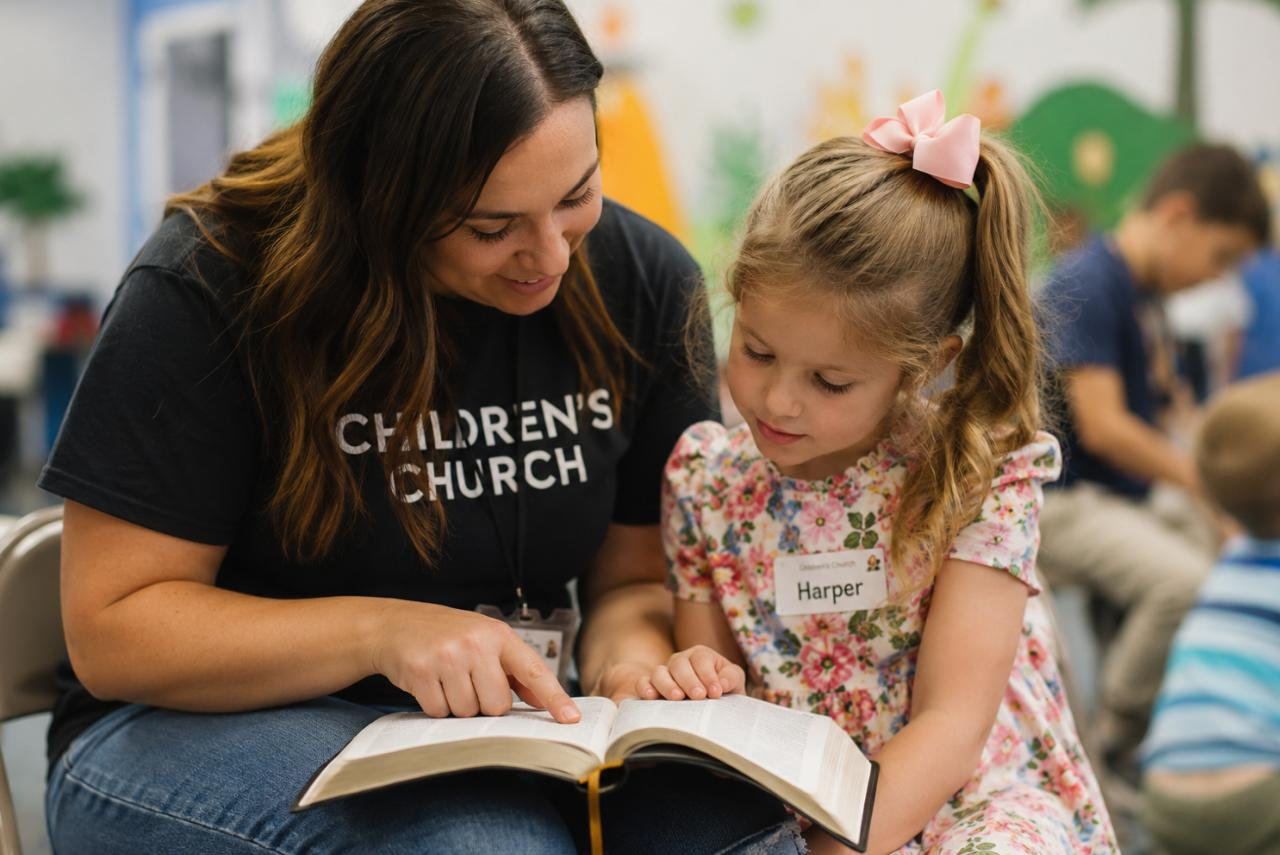
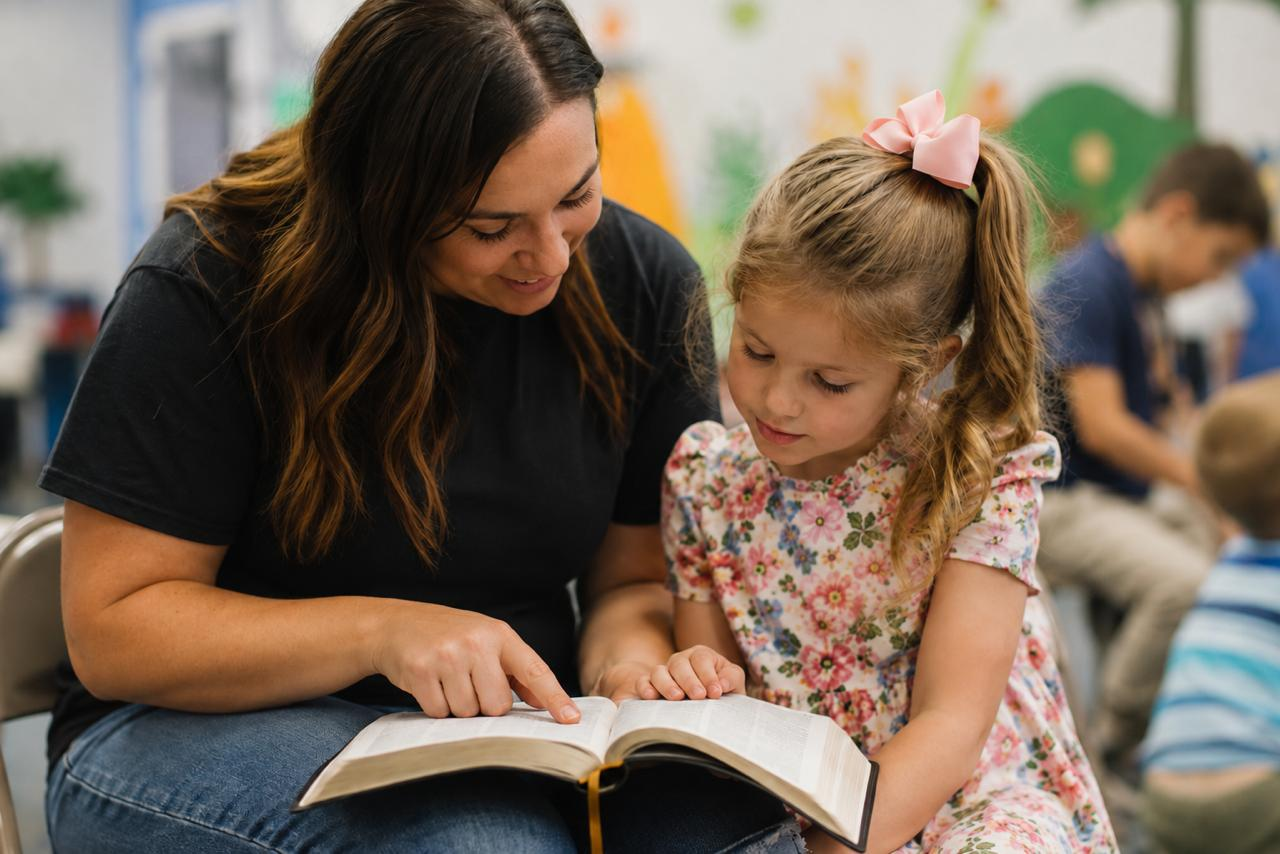
feat: per-page OG images + shirt photo swap
OG images:
- Default: og-default.jpg (bible photo, replaces logo)
- /kids: kids-hero.jpg
- /youth: youth-bible-study.jpg
- /life-groups: life-groups-hero.jpg
- /classes: classes-hero.jpg
- /sermons: expository-preaching.jpg
- /resources: mere-membership-book.jpg
- /kids/adventure-club: kids-hero.jpg
- Fix: removed stale /barabbas-road/ prefix from default OG image paths

Kids page: swap kids-serve-volunteer.jpg (shirt text removed)

diff --git a/app/layout.tsx b/app/layout.tsx
@@ -140,7 +140,7 @@ export const metadata: Metadata = {
       "A Bible-teaching church in Miramar, San Diego. Verse-by-verse preaching every Sunday at 10am. 7340 Miramar Rd, San Diego, CA 92126.",
     images: [
       {
-        url: "/barabbas-road/assets/logolock-black.png",
+        url: "/assets/og-default.jpg",
         width: 1200,
         height: 630,
         alt: "Barabbas Road Church — San Diego",
@@ -151,7 +151,7 @@ export const metadata: Metadata = {
     card: "summary_large_image",
     title: `${CHURCH_NAME} — San Diego`,
     description: "Bible-teaching church in Miramar, San Diego. Sundays at 10am. 7340 Miramar Rd.",
-    images: ["/barabbas-road/assets/logolock-black.png"],
+    images: ["/assets/og-default.jpg"],
   },
   robots: {
     index: true,

diff --git a/app/kids/adventure-club/layout.tsx b/app/kids/adventure-club/layout.tsx
@@ -5,6 +5,9 @@ export const metadata: Metadata = {
   description:
     "Adventure Club at Barabbas Road Church — a monthly outdoor program for kids combining adventure, team challenges, and Bible-centered discipleship.",
   alternates: { canonical: "https://barabbas.com/kids/adventure-club/" },
+  openGraph: {
+    images: [{ url: "/assets/kids-hero.jpg", width: 1200, height: 630, alt: "Adventure Club — Barabbas Road Kids" }],
+  },
 };
 
 export default function AdventureClubLayout({ children }: { children: React.ReactNode }) {

diff --git a/app/resources/page.tsx b/app/resources/page.tsx
@@ -9,6 +9,9 @@ export const metadata: Metadata = {
   description:
     "Pastoral papers, theological studies, and position papers from Barabbas Road Church — exploring doctrine, Scripture, and everyday Christian living.",
   alternates: { canonical: "https://barabbas.com/resources/" },
+  openGraph: {
+    images: [{ url: "/assets/mere-membership-book.jpg", width: 1200, height: 630, alt: "Resources — Barabbas Road Church" }],
+  },
 };
 
 type Paper = { title: string; description: string; file: string; type: "pdf" | "doc" };

diff --git a/app/life-groups/page.tsx b/app/life-groups/page.tsx
@@ -8,6 +8,9 @@ export const metadata: Metadata = {
   description:
     "Find a Life Group near you. Weekly small groups throughout San Diego for Bible study, fellowship, and community.",
   alternates: { canonical: "https://barabbas.com/life-groups/" },
+  openGraph: {
+    images: [{ url: "/assets/life-groups-hero.jpg", width: 1200, height: 630, alt: "Life Groups at Barabbas Road Church — San Diego" }],
+  },
 };
 
 import LifeGroupsMapLoader from "@/components/life-groups/LifeGroupsMapLoader";

diff --git a/app/classes/page.tsx b/app/classes/page.tsx
@@ -9,6 +9,9 @@ export const metadata: Metadata = {
   description:
     "Bible-teaching classes at Barabbas Road Church — Inductive Bible Study on Sundays and Theologetics on Tuesdays. Open to all, no sign-up required.",
   alternates: { canonical: "https://barabbas.com/classes/" },
+  openGraph: {
+    images: [{ url: "/assets/classes-hero.jpg", width: 1200, height: 630, alt: "Bible Classes at Barabbas Road Church — San Diego" }],
+  },
 };
 
 export default function ClassesPage() {

diff --git a/app/youth/page.tsx b/app/youth/page.tsx
@@ -8,6 +8,9 @@ export const metadata: Metadata = {
   description:
     "Youth ministry at Barabbas Road Church. Monthly events equipping students ages 12–17 to think biblically, build community, and develop lasting faith.",
   alternates: { canonical: "https://barabbas.com/youth/" },
+  openGraph: {
+    images: [{ url: "/assets/youth-bible-study.jpg", width: 1200, height: 630, alt: "Youth Ministry at Barabbas Road Church — San Diego" }],
+  },
 };
 
 const EVENTS = [

diff --git a/app/kids/page.tsx b/app/kids/page.tsx
@@ -9,6 +9,9 @@ export const metadata: Metadata = {
   description:
     "Children's Church at Barabbas Road is available for ages 1–11 every Sunday. Safe, Bible-based teaching using the Generations of Grace curriculum.",
   alternates: { canonical: "https://barabbas.com/kids/" },
+  openGraph: {
+    images: [{ url: "/assets/kids-hero.jpg", width: 1200, height: 630, alt: "Children's Church at Barabbas Road Church — San Diego" }],
+  },
 };
 
 const SAFETY_ITEMS = [

diff --git a/app/sermons/layout.tsx b/app/sermons/layout.tsx
@@ -10,6 +10,7 @@ export const metadata: Metadata = {
     description:
       "Verse-by-verse expository preaching through entire books of the Bible. Every Sunday at 10am, Miramar, San Diego.",
     url: "https://barabbas.com/sermons/",
+    images: [{ url: "/assets/expository-preaching.jpg", width: 1200, height: 630, alt: "Sermons — Barabbas Road Church, San Diego" }],
   },
 };
 
